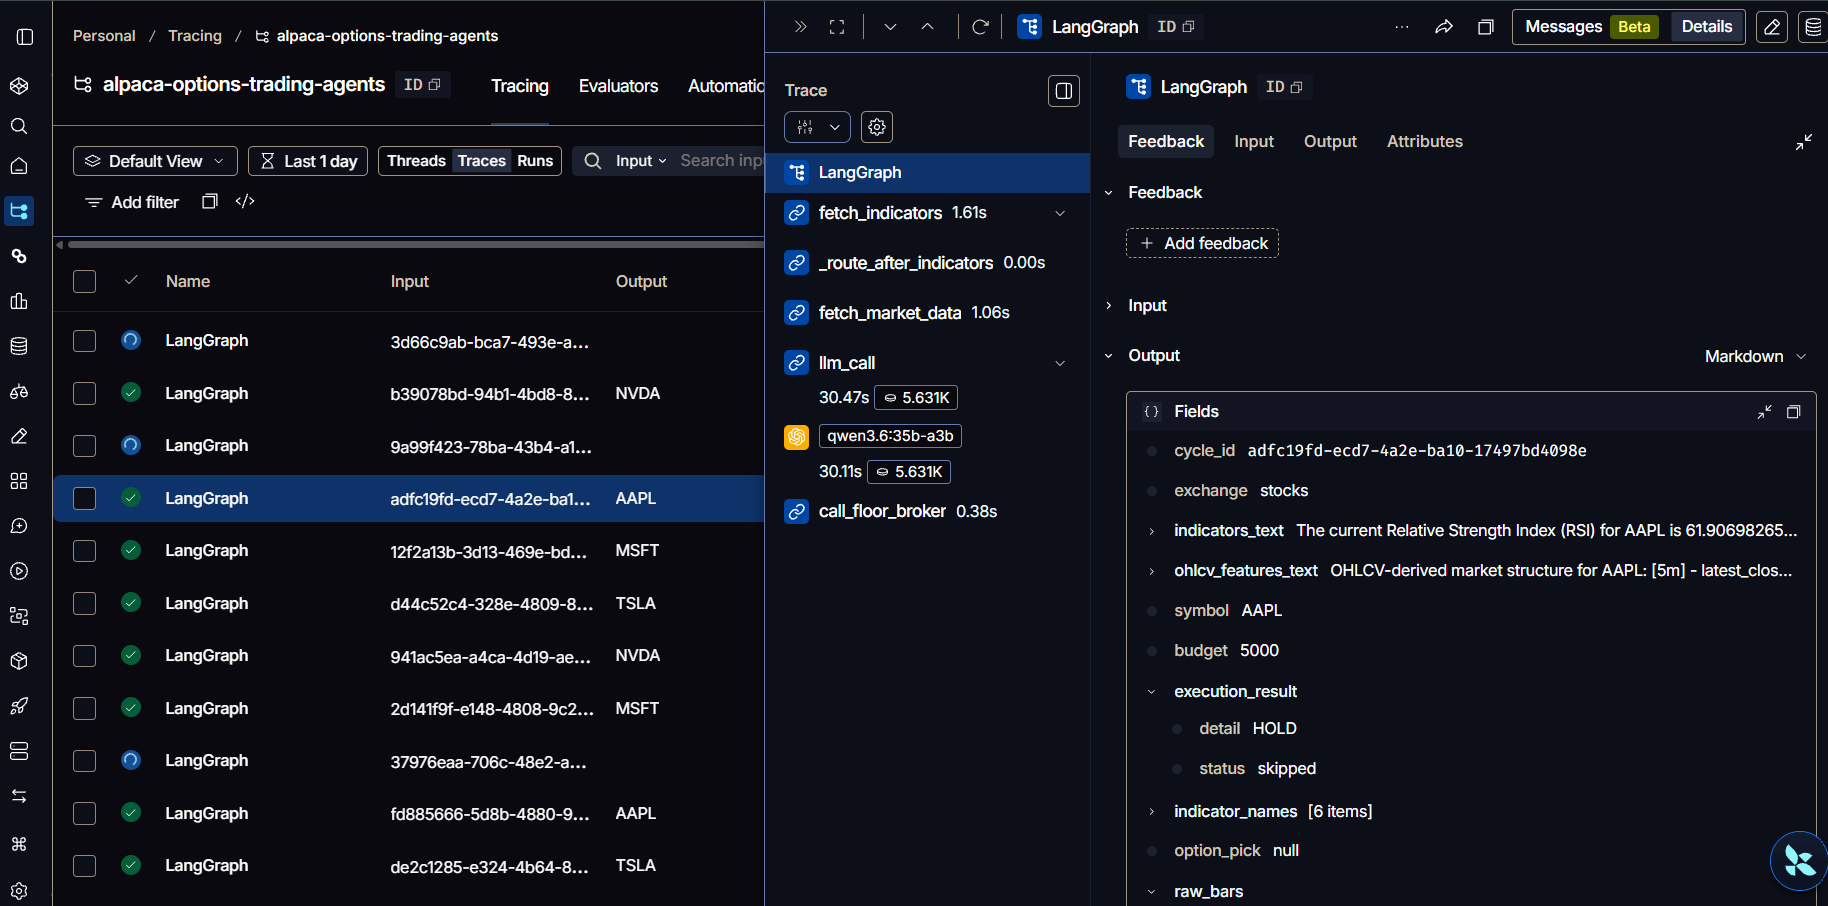
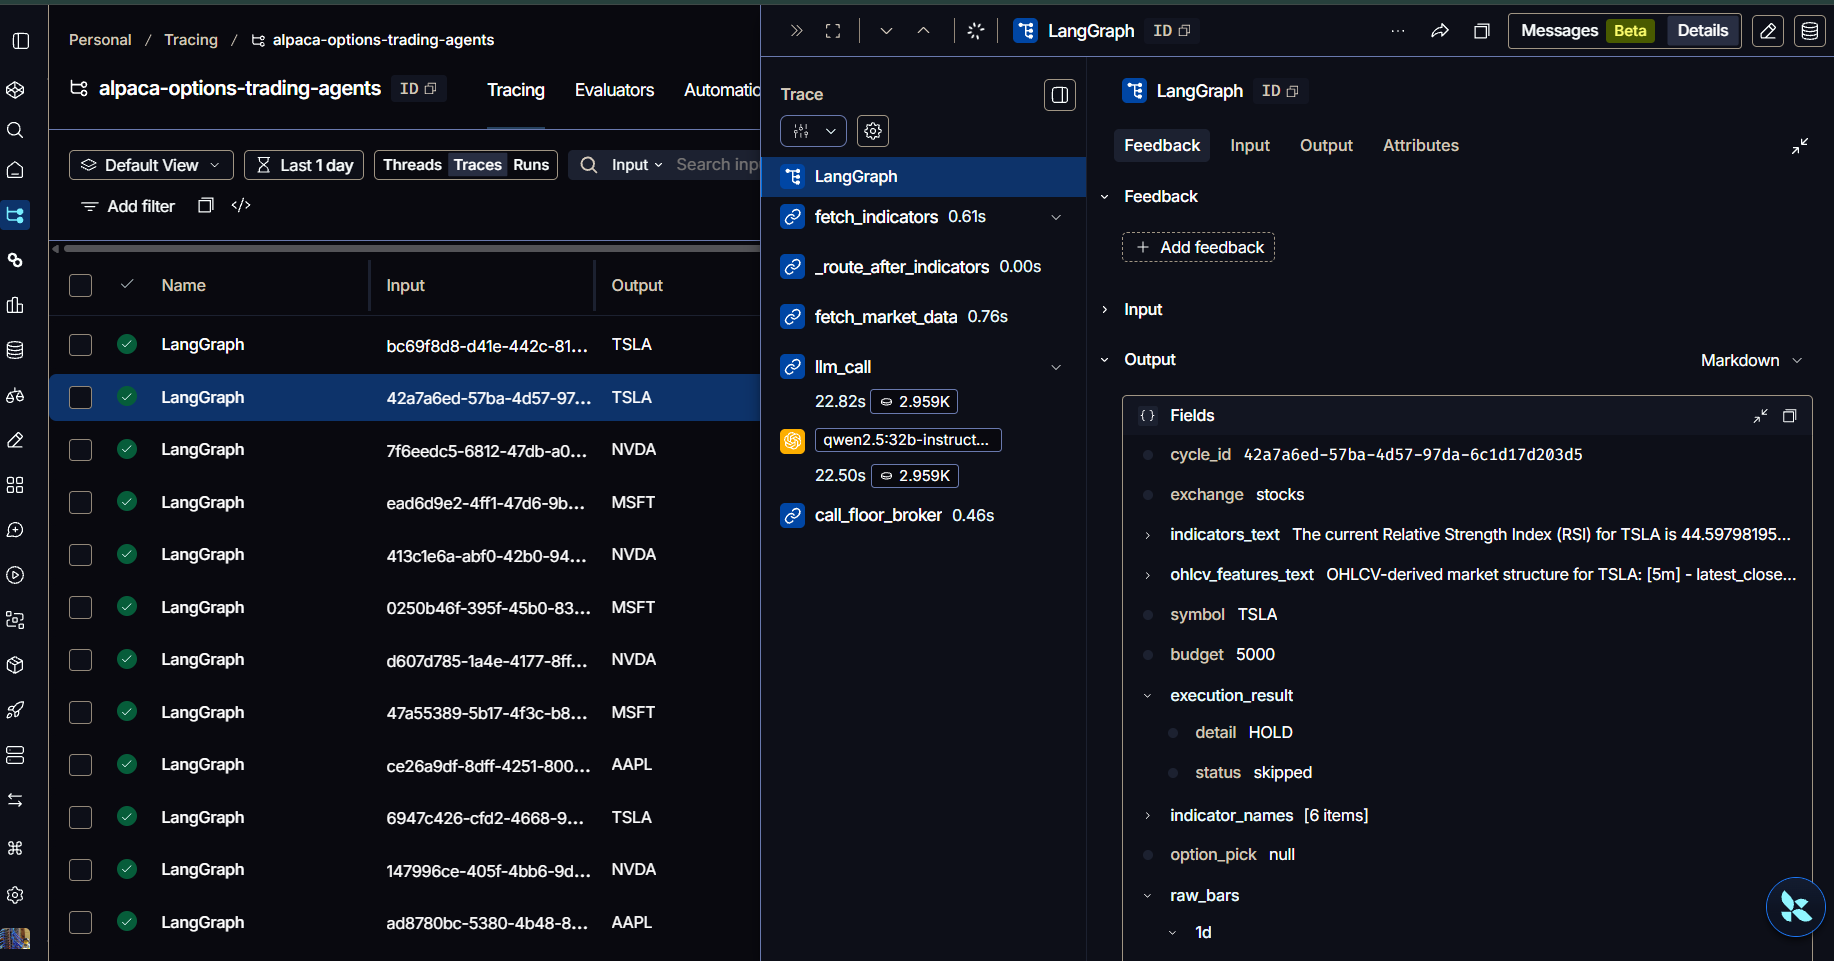
docs: refresh the LangSmith trace screenshot to a qwen2.5:32b run
The committed trace was captured on the abandoned qwen3.6:35b-a3b model. Replace
it with a current Dealer run (TSLA, HOLD -> skipped) on qwen2.5:32b-instruct and
update the caption timings/token count to match.

Claude-Session: https://claude.ai/code/session_015J1utFFPZULGFjKbLo4fQJ

diff --git a/docs/architecture.md b/docs/architecture.md
@@ -196,14 +196,13 @@ flowchart TD
 Every graph run is traced to LangSmith (`LANGCHAIN_API_KEY`, project
 `alpaca-options-trading-agents`), tagged `dealer`:
 
-![LangSmith trace of one Dealer graph run for AAPL](img/langsmith-dealer-trace.png)
+![LangSmith trace of one Dealer graph run for TSLA](img/langsmith-dealer-trace.png)
 
-*One cycle for AAPL: `fetch_indicators` (1.6s) -> `fetch_market_data` (1.1s) ->
-`llm_call` (30.5s, ~5.6k tokens) -> `call_floor_broker` (0.4s). The model
-returned HOLD, so `execution_result` is `{detail: HOLD, status: skipped}`,
-`option_pick` is null, and the contract-selection node is never entered. This
-trace was captured while the Dealer still ran `qwen3.6:35b-a3b`; it now runs
-`qwen2.5:32b-instruct-q4_K_M` (see [models.md](models.md)).*
+*One cycle for TSLA: `fetch_indicators` (0.6s) -> `fetch_market_data` (0.8s) ->
+`llm_call` (22.8s, ~3.0k tokens, `qwen2.5:32b-instruct-q4_K_M`) ->
+`call_floor_broker` (0.5s). The model returned HOLD, so `execution_result` is
+`{detail: HOLD, status: skipped}`, `option_pick` is null, and the
+contract-selection node is never entered (see [models.md](models.md)).*
 
 **LLM call:** same pattern as Analyst — `ChatOpenAI(base_url=cfg.llm.base_url,
 ...).with_structured_output(Signal)`. System prompt: *"You are an expert technical trader in
